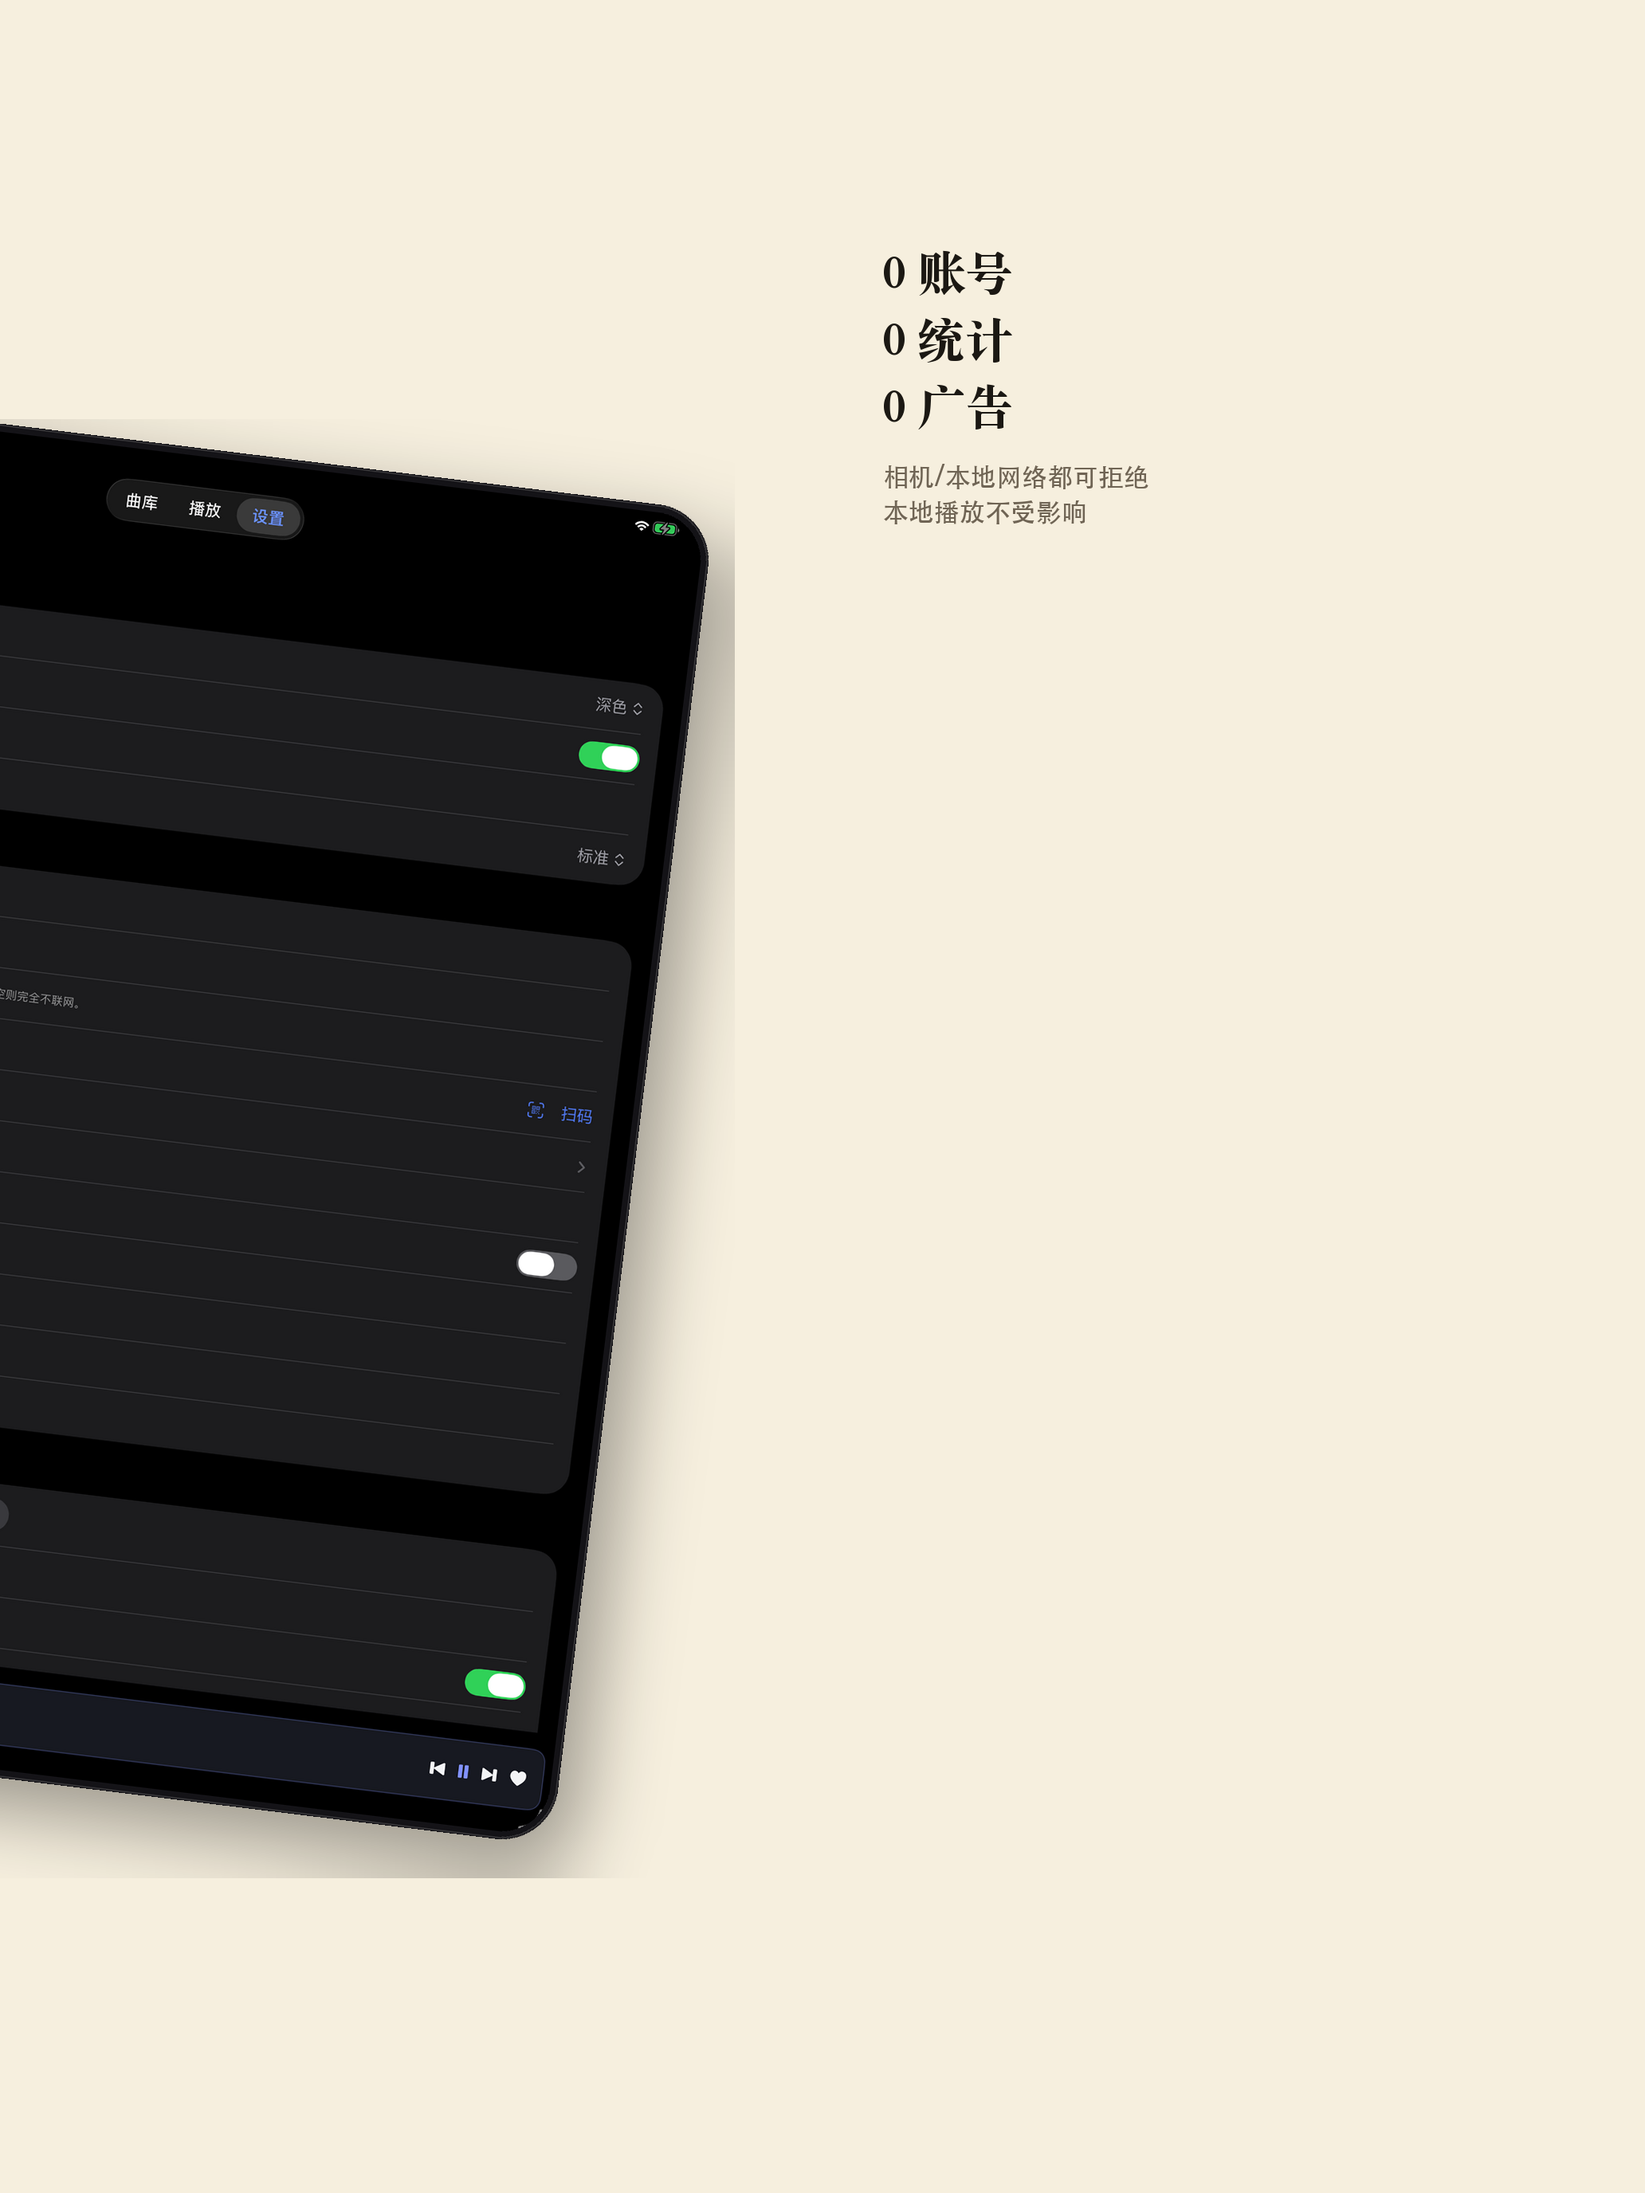
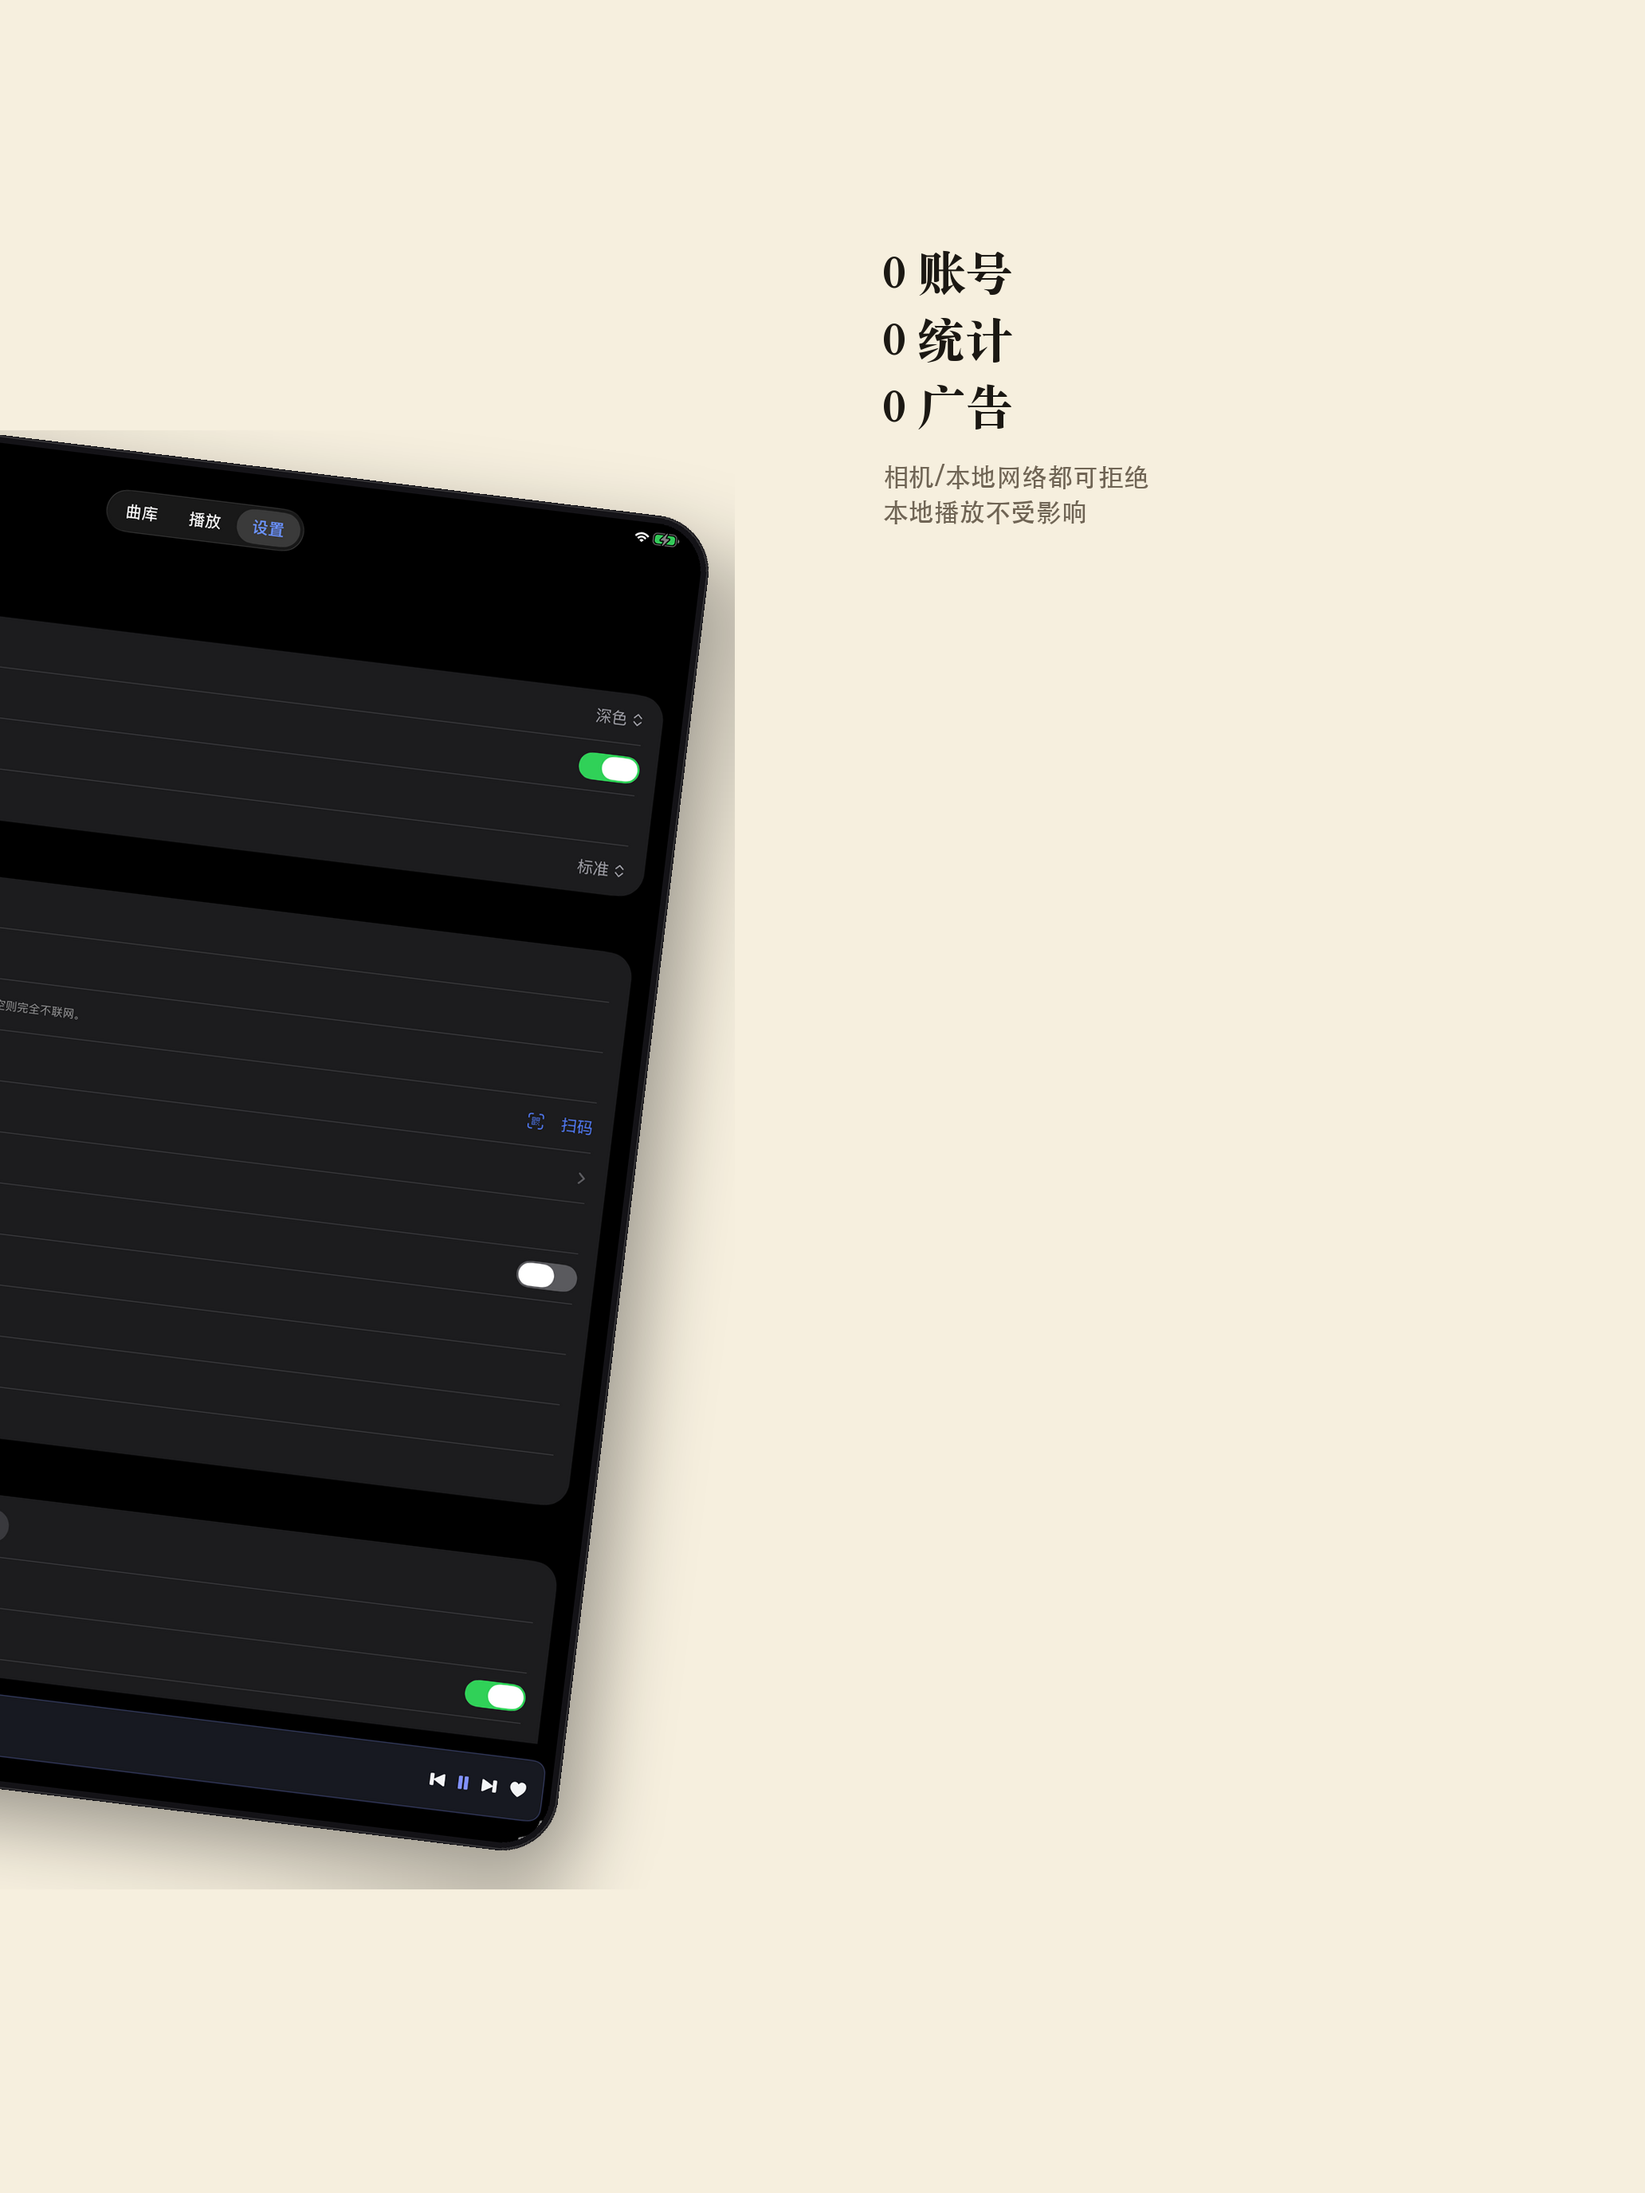
muyunmusic：三个屏顶边对齐，统一高度

diff --git a/muyunmusic/SUBMISSION_CHECKLIST.md b/muyunmusic/SUBMISSION_CHECKLIST.md
@@ -10,8 +10,8 @@
 |---|---|---|
 | 商店文案（推广/描述/副标题/关键词） | `APP_STORE_LISTING.md` §1–§4 | ✅ 可直接复制 |
 | 审核备注（英文/中文） | `APP_STORE_LISTING.md` §9、`review-notes.txt` | ✅ |
-| 4 张 6.9" iPhone 截图 | `screenshots/iphone/` | ✅ 1320×2868，连续全景切片（统一向右倾） |
-| 4 张 13" iPad 截图 | `screenshots/ipad/` | ✅ 2064×2752，连续全景切片（统一向右倾） |
+| 4 张 6.9" iPhone 截图 | `screenshots/iphone/` | ✅ 1320×2868，连续全景切片（统一向右倾、同高） |
+| 4 张 13" iPad 截图 | `screenshots/ipad/` | ✅ 2064×2752，连续全景切片（统一向右倾、同高） |
 | 原创演示曲目/歌词 | `screenshots/showcase/` | ✅ 8 首假歌、3 份 LRC、8 张封面 |
 | 隐私政策 | `privacy.html` / `PRIVACY.md` | ✅ 已含相机/本地网络/自填服务器 |
 | 技术支持 | `support.html` | ✅ 已更新 |
